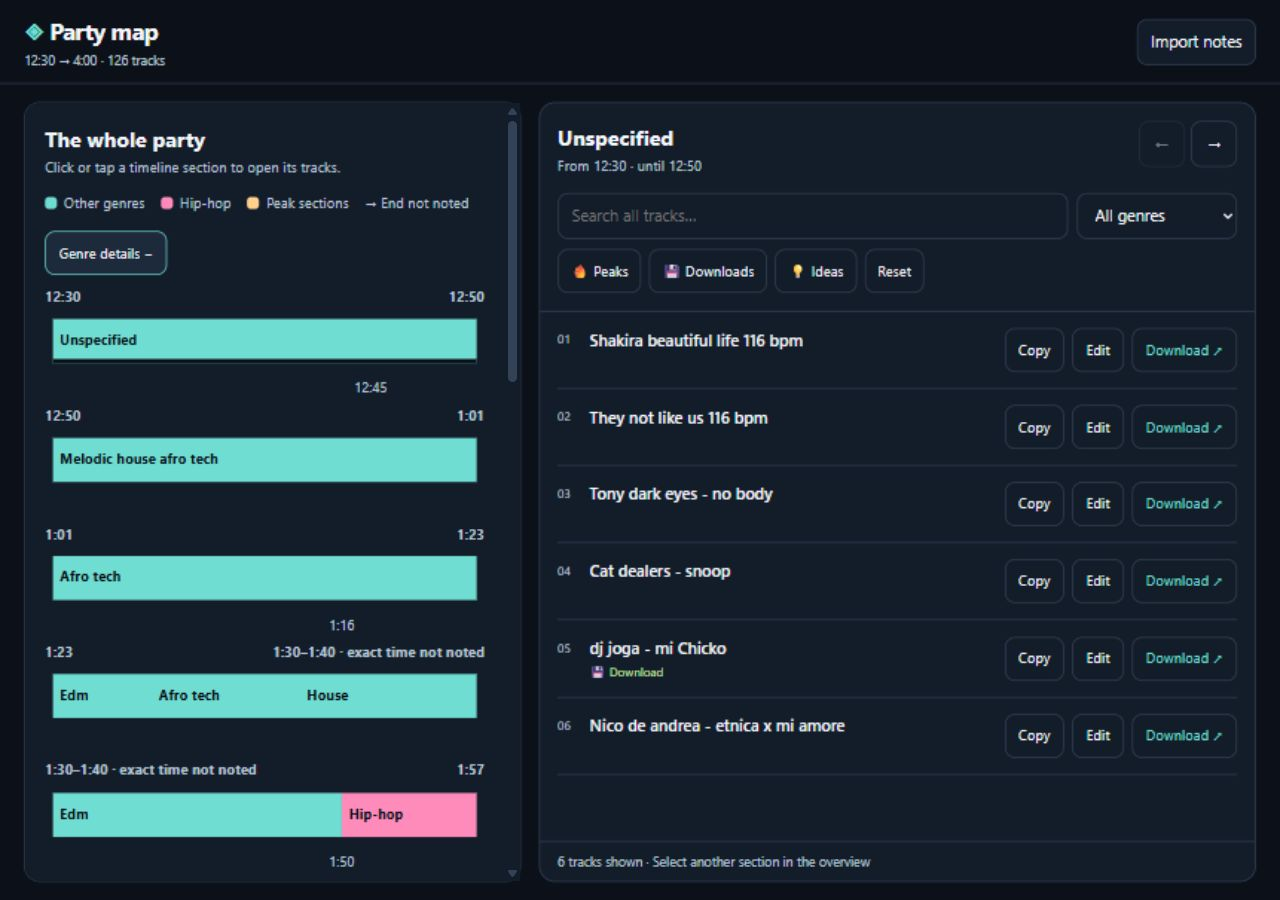
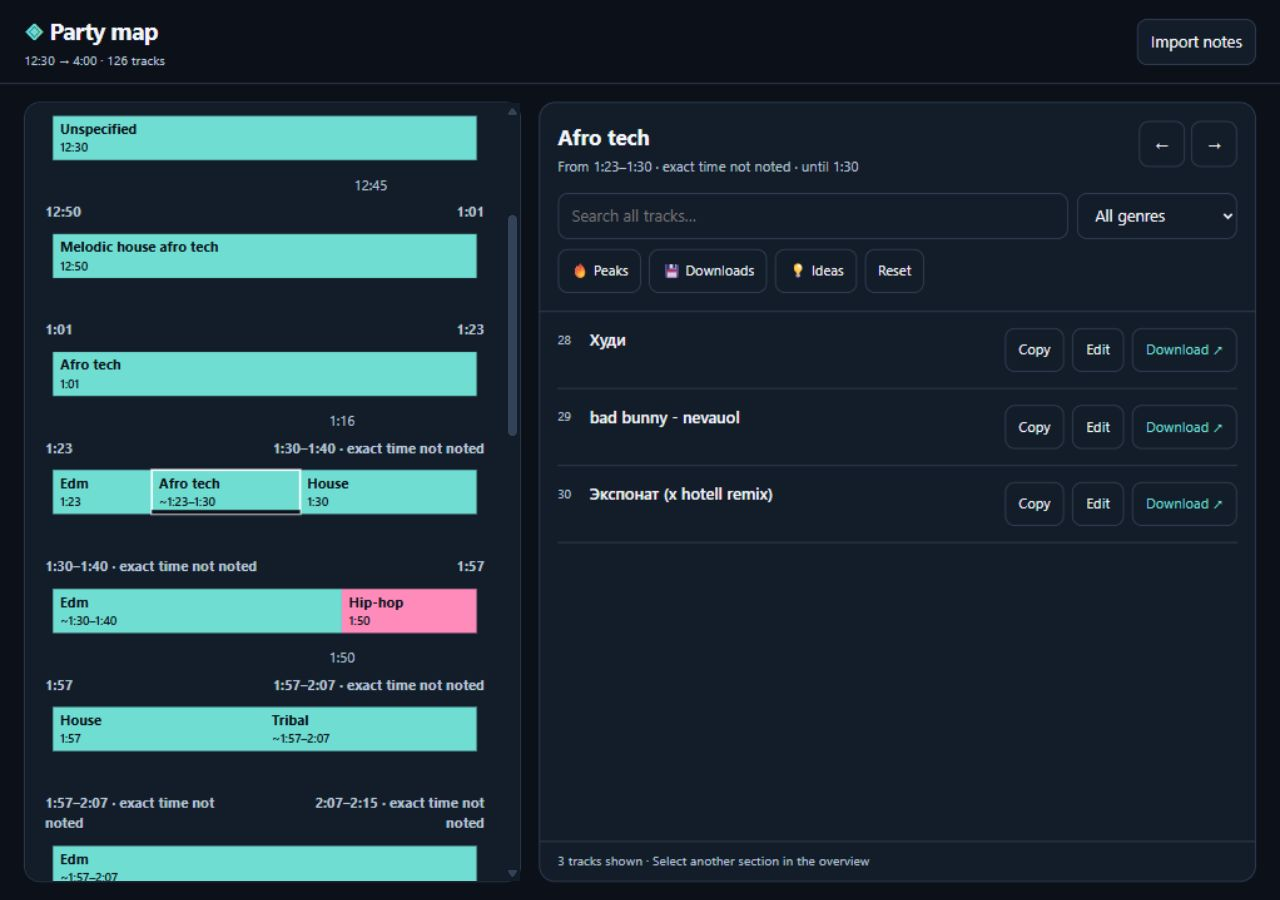
Show every genre change time and align multilingual tracks

diff --git a/src/views/PartyPage.svelte b/src/views/PartyPage.svelte
@@ -1,12 +1,12 @@
 <script lang="ts">
   import type { Model } from '../lib/parser';
-  import { boundary, clock, color, genreBands, isHip, overviewRuns, peakRuns, timeBands } from '../lib/timeline';
+  import { boundary, changeTime, clock, color, genreBands, isHip, overviewRuns, peakRuns, timeBands } from '../lib/timeline';
   export let model: Model;
   export let selected: number;
   export let active: boolean;
   export let select: (id: number, trackId?: number) => void;
   let mapWidth = 600;
-  let showGenres = false;
+  let showGenres = true;
   $: diagramWidth = Math.max(220, mapWidth - 16);
   $: bands = timeBands(model);
   $: zoomBands = genreBands(model, Math.max(160, diagramWidth - 116));
@@ -30,6 +30,18 @@
     <span><i class="dot" style="--color:var(--fire)"></i>Peak sections</span>
     <span>→ End not noted</span>
   </div>
+  {#if showGenres}
+    <div class="macro-map" aria-label="Whole-party overview">
+      {#each bands as band}
+        <div class="macro-caption"><span>{clock(band.start)}</span><span>{clock(band.end)}</span></div>
+        <svg viewBox={`0 0 ${diagramWidth} 16`} preserveAspectRatio="none" aria-label={`Overview ${clock(band.start)} to ${clock(band.end)}`}>
+          {#each flow.filter(run => run.end > band.start && run.start < band.end) as run}
+            <rect x={x(Math.max(run.start, band.start), band.start, band.end)} y="0" width={x(Math.min(run.end, band.end), band.start, band.end) - x(Math.max(run.start, band.start), band.start, band.end)} height="16" fill={color(run.genre)} />
+          {/each}
+        </svg>
+      {/each}
+    </div>
+  {/if}
   <button class="genre-detail-toggle" aria-pressed={showGenres} onclick={() => showGenres = !showGenres}>Genre details {showGenres ? '−' : '+'}</button>
   <div id="map" bind:clientWidth={mapWidth}>
     {#each chartRows as band, rowIndex}
@@ -54,7 +66,8 @@
               <rect class="genre-fill" x={left} y="10" {width} height="44" fill="transparent" />
               {#if !active && selected === s.id}<rect class="selection-mark" x={left} y="50" {width} height="4" fill="var(--bg)" />{/if}
               <rect class="hit-area" x={left} y="10" {width} height="44" fill="transparent" />
-              {#if showGenres || width > s.genre.length * 8 + 14}<text class="map-label" x={left + 7} y="36">{isHip(s.genre) ? 'Hip-hop' : s.genre}</text>{/if}
+              {#if showGenres || width > s.genre.length * 8 + 14}<text class="map-label" x={left + 7} y={showGenres ? 28 : 36}>{isHip(s.genre) ? 'Hip-hop' : s.genre}</text>{/if}
+              {#if showGenres}<text class="map-label change-time" x={left + 7} y="46">{changeTime(s)}</text>{/if}
             </g>
           {/each}
           {#each peaks.filter(t => t.end > band.start && t.start < band.end) as t}
@@ -81,7 +94,7 @@
       <p class="note">No timed flow yet. Open a section below to browse your tracks.</p>
     {/each}
   </div>
-  <p class="note">Some genre changes have no exact time in your notes. These show a time range.</p>
+  <p class="note">~ means the change happened within this time range; your notes do not give an exact minute.</p>
   <details><summary>Browse all sections</summary><div class="section-buttons">
     {#each model.sections as s}<button data-section={s.id} aria-pressed={!active && selected === s.id} onclick={() => select(s.id)}><span>{s.genre}</span><span>{boundary(s)}</span></button>{/each}
   </div></details>

diff --git a/tests/browser/planner.spec.ts b/tests/browser/planner.spec.ts
@@ -11,12 +11,18 @@ test('map, final section, keyboard selection and large controls', async ({ page 
   await expect(page.getByText('126 tracks', { exact: false }).first()).toBeVisible();
   await expect(page.getByLabel('Choose a time & genre section')).toHaveCount(0);
   await expect(page.locator('.selected-card')).toHaveCount(0);
-  await expect(page.locator('.map-row').first().locator('.flow-band')).toHaveCount(1);
-  await page.getByRole('button', { name: 'Genre details +', exact: true }).click();
+  await expect(page.locator('.macro-map')).toBeVisible();
   await expect(page.locator('.genre-captions')).toHaveCount(0);
   await expect(page.locator('svg .segment .map-label').filter({ hasText: /^House$/ }).first()).toBeVisible();
   await expect(page.locator('svg .segment .map-label').filter({ hasText: /^Edm$/ }).first()).toBeVisible();
+  for (const change of await page.locator('#map .segment:not(.terminal-section)').all()) {
+    await expect(change.locator('.map-label')).toHaveCount(2);
+    await expect(change.locator('.change-time')).not.toBeEmpty();
+  }
+  await expect(page.locator('.change-time').filter({ hasText: '~1:23–1:30' })).toHaveCount(1);
+  await expect(page.locator('.change-time').filter({ hasText: '~1:30–1:40' })).toHaveCount(1);
   await page.getByRole('button', { name: 'Genre details −', exact: true }).click();
+  await expect(page.locator('.map-row').first().locator('.flow-band')).toHaveCount(1);
   const final = page.getByRole('button', { name: 'Hip hop, 4:00, open 1 tracks', exact: true });
   await expect(page.locator('svg .terminal-section')).toHaveCount(1);
   await expect(page.locator('button.terminal-section')).toHaveCount(0);
@@ -46,6 +52,7 @@ test('import, cancel, correction, encoded search, combined filters and reload', 
   await page.getByLabel('Correct track name').fill('מתוק & Вечер (mix)');
   await page.getByRole('button', { name: 'Save', exact: true }).click();
   await expect(page.locator('#tracks .title')).toHaveText('מתוק & Вечер (mix)');
+  expect(await page.locator('#tracks .title').evaluate(el => ({ align: getComputedStyle(el).textAlign, dir: getComputedStyle(el).direction }))).toEqual({ align: 'left', dir: 'rtl' });
   const search = page.getByRole('link', { name: 'Search Google for מתוק & Вечер (mix) download', exact: true });
   expect(new URL((await search.getAttribute('href'))!).searchParams.get('q')).toBe('מתוק & Вечер (mix) download');
   await page.getByRole('button', { name: 'Copy מתוק & Вечер (mix)', exact: true }).click();

diff --git a/src/lib/timeline.ts b/src/lib/timeline.ts
@@ -35,6 +35,13 @@ export function boundary(section: Section) {
   if (section.boundStart === section.boundEnd) return `After ${clock(section.boundStart)} · exact time not noted`;
   return `${clock(section.boundStart)}–${clock(section.boundEnd)} · exact time not noted`;
 }
+/** Short in-bar time label; ranges retain uncertainty rather than inventing minutes. */
+export function changeTime(section: Section) {
+  if (section.tracks[0]?.time === 'Unscheduled') return 'Time not noted';
+  if (section.exact) return clock(section.start);
+  if (section.boundStart === section.boundEnd) return `After ${clock(section.boundStart)}`;
+  return `~${clock(section.boundStart)}–${clock(section.boundEnd)}`;
+}
 export function sectionRange(section: Section, model: Model) {
   const next = model.sections[section.id + 1];
   return next ? `From ${boundary(section)} · until ${boundary(next)}` : `From ${boundary(section)} · end time unspecified`;
@@ -54,7 +61,7 @@ export function genreBands(model: Model, width: number) {
   let group: Section[] = [];
   const fits = (sections: Section[]) => {
     const start = sections[0].start, end = sections.at(-1)!.end;
-    return sections.every(s => (s.end - s.start) / (end - start) * width >= s.genre.length * 8 + 18);
+    return sections.every(s => (s.end - s.start) / (end - start) * width >= Math.max(s.genre.length, changeTime(s).length) * 8 + 18);
   };
   const flush = () => {
     if (group.length) bands.push({ start: group[0].start, end: group.at(-1)!.end, first: group[0], last: group.at(-1)! });

diff --git a/src/styles/app.css b/src/styles/app.css
@@ -128,6 +128,7 @@ main{
   color:var(--muted);
   margin-bottom:2px;
   display:flex;
+  gap:16px;
   justify-content:space-between;
   font-variant-numeric:tabular-nums
 }
@@ -161,6 +162,12 @@ main{
   pointer-events:none
 }
 .genre-detail-toggle{margin-block-end:12px;font-size:14px;min-height:44px}
+.macro-map{margin-block-end:16px}
+.macro-map svg{width:100%;height:16px;display:block;border-radius:3px;margin-block-end:6px}
+.macro-caption{display:flex;justify-content:space-between;font-size:12px;color:var(--muted)}
+.row-caption span{min-width:0;overflow-wrap:anywhere}
+.row-caption span:last-child{text-align:right}
+.change-time{font-size:12px;font-weight:500}
 .note{
   font-size:14px;
   color:var(--muted);
@@ -293,7 +300,7 @@ details{
   font-weight:600;
   overflow-wrap:anywhere;
   unicode-bidi:plaintext;
-  text-align:start
+  text-align:left
 }
 .tags{
   font-size:12px;

diff --git a/docs/verification.md b/docs/verification.md
@@ -14,7 +14,7 @@ Completed stories: E7-S1–S4, E1-S1–S2, E5-S1. The migrated source preserves 
 - Browser coverage includes import/cancel/invalid input, `.txt` files, edit/save/reload, multilingual names, combined filters, corrected Google links, final-section Enter/Space activation, rapid-switch button alternatives, hostile text rendering, corrupt imported data, storage denial, clipboard fallback success, and clipboard failure feedback.
 - Offline contexts disable networking. Request observation across every workflow reports no network or sibling assets; only the HTML document itself is requested. No app page errors were observed.
 - The 4:00 Hip hop cap inside the final SVG bar opens `Me pregunto` without inventing an ending time. Tests assert it is inside the chart rather than a separate button. Every section also has a full-size button in **Browse all sections**.
[2 lines of base64/hex data omitted]
 
 Bundled model: 126 tracks, 25 blocks, 26 sections, 42 downloads, 25 peaks, 2 ideas. Existing imported-note and correction keys are preserved; scoped title corrections reload correctly.
 
@@ -28,4 +28,6 @@ GitHub Actions repeats installation, checks, builds, tests, and reproducibility 
 
 The structural validator is a packaging guard, not a general HTML security auditor; runtime request checks and untrusted-text browser tests complement it. Google link parameters are tested without performing a real audio download or navigating to Google.
 
-Genre detail mode is verified in all six browser projects: House at 1:30 and subsequent EDM appear inside the bars. Tests assert the inter-row genre captions are absent. Tighter row scopes preserve source diagram coordinates, with source boundaries above the bars. The compact overview remains the default. Updated screenshots were captured and visually inspected at settled phone/desktop viewports.
+Genre detail mode is verified in all six browser projects: House at 1:30 and subsequent EDM appear inside the bars. Tests assert the inter-row genre captions are absent. Tighter row scopes preserve source diagram coordinates, with source boundaries above the bars. Genre details is shown by default with a compact macro overview above it. Updated screenshots were captured and visually inspected at settled phone/desktop viewports.
+
+Follow-up: every detailed bar displays a short source change time by default, including uncertain Afro tech/EDM ranges. All six browser projects assert each bar has both labels. Hebrew-leading track titles retain automatic RTL direction and use left alignment, verified in multilingual edit workflows; bundled Hebrew tracks were visually reviewed. Astro/Svelte checks and 15 Node/42 browser tests pass.

diff --git a/backlog.md b/backlog.md
@@ -295,7 +295,7 @@ AC:
 
 Completed UX correction (2026-10-11): removed the redundant time/genre selector and selected-section card, kept a collapsed **Browse all sections** fallback, and rendered continuous overview/peak bands without internal dividers. Detailed genre selection and hip-hop boundaries remain intact. E8 stories below still track the broader refinement work.
 
-Additional correction: **Genre details** uses tighter time scopes to put full names inside the bars, including House/EDM in the 1:30 block. Inter-row genre notes are removed. The final 4:00 Hip hop track is selectable inside the last bar with an open-ended arrow. The compact overview remains the default; both modes are verified in hosted/offline phone, desktop, and short-height tests.
+Additional correction: **Genre details** uses tighter time scopes to put full names inside the bars, including House/EDM in the 1:30 block. Inter-row genre notes are removed. The final 4:00 Hip hop track is selectable inside the last bar with an open-ended arrow. Genre details is shown by default with a compact macro overview above it; both modes are verified in hosted/offline phone, desktop, and short-height tests.
 
 ### E8-S1 — Introduce coherent tokens and calm layout hierarchy · P1 · Todo
 
@@ -339,3 +339,5 @@ AC:
 E7-S1 → E7-S2 with E5-S1 → E7-S3 → E1-S1 → E1-S2 → E7-S4 → E8-S1 → E2-S1 → E3-S1 → E3-S2 → E4-S2 → E4-S1 → E8-S2 → E2-S2 → E5-S2 → E6-S1.
 
 A story is Done only after its AC pass and the relevant validation evidence is recorded. Priority belongs to the work, not to the order in which its section appears here.
+
+UX follow-up completed: default genre/time labels in every detailed bar, compact whole-party preview, and consistent Hebrew/English track alignment. Existing regression workflows verify labels and RTL alignment in both builds at all three viewport sizes.

diff --git a/plan.md b/plan.md
@@ -70,7 +70,7 @@ No chart estimate becomes an exact source timestamp. Final sections use an expli
 
 The clickable timeline is the main navigation. The redundant time/genre dropdown and selected-section card are removed; **Browse all sections** is a collapsed fallback for short sections. Continuous teal/pink overview runs and amber peak runs render without internal divider seams. Detailed genres retain their individual click/keyboard targets and labels; selected sections use an underline, with an outline on hover/focus.
 
-The compact overview is the default. **Genre details** uses tighter time scopes so full genre names fit inside the bars. Source times or known ranges label each row boundary; genre notes between rows are removed. The final 4:00 Hip hop section is an integrated cap on the last bar, with an arrow indicating an unrecorded ending. Its cap width is a navigation affordance, not an inferred duration.
+Genre details is shown by default, with a small whole-party overview above it. **Genre details** uses tighter time scopes so full genre names fit inside the bars. Source times or known ranges label each row boundary; genre notes between rows are removed. The final 4:00 Hip hop section is an integrated cap on the last bar, with an arrow indicating an unrecorded ending. Its cap width is a navigation affordance, not an inferred duration.
 
 Imports and corrections are untrusted text. Keep copy and Google search tied to the current title. Storage is scoped to the browser/origin, with session-only feedback when unavailable; legacy data remains compatible on the same origin.
 

diff --git a/README.md b/README.md
@@ -30,7 +30,7 @@ pnpm preview
 ## Features
 
 - Three-band party overview with clickable genre sections, pink hip-hop, and amber peaks.
-- **Genre details** zooms into tighter time ranges, with genre names inside the bars and recorded boundaries above them.
+- **Genre details** is visible by default: every bar has a genre name and change time, with a compact whole-party overview above. Uncertain changes show their known range with ~.
 - The final section stays inside the last timeline bar; an arrow indicates its ending time is missing.
 - Clickable timeline navigation and a collapsed Browse all sections list with full-size buttons for brief switches.
 - Desktop overview beside a generous track pane; dedicated Party/Tracks views on phones.
